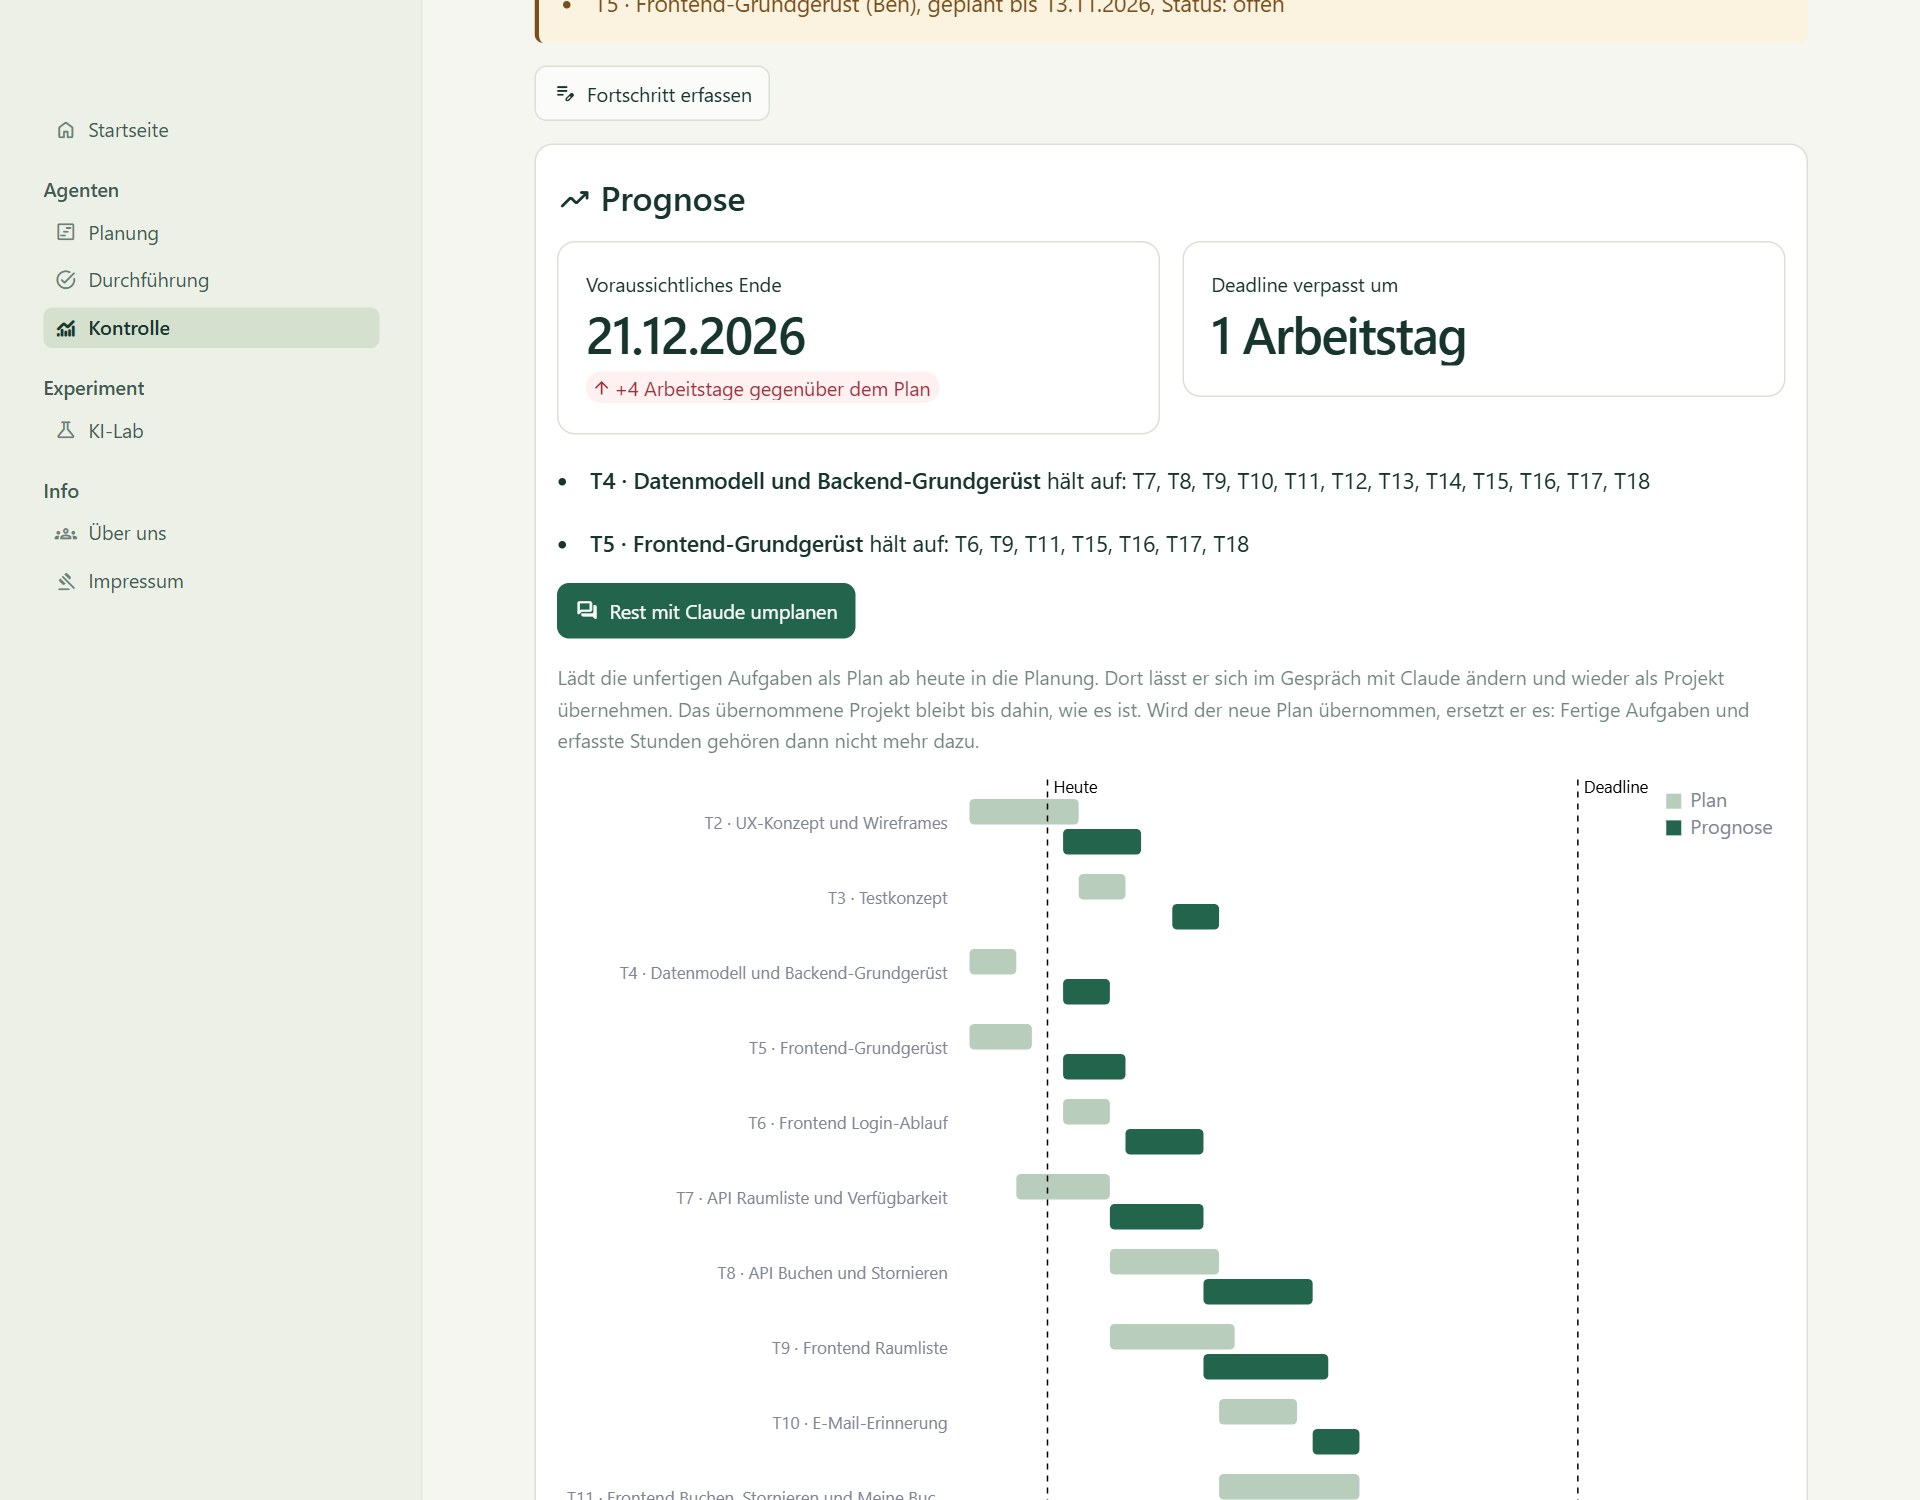
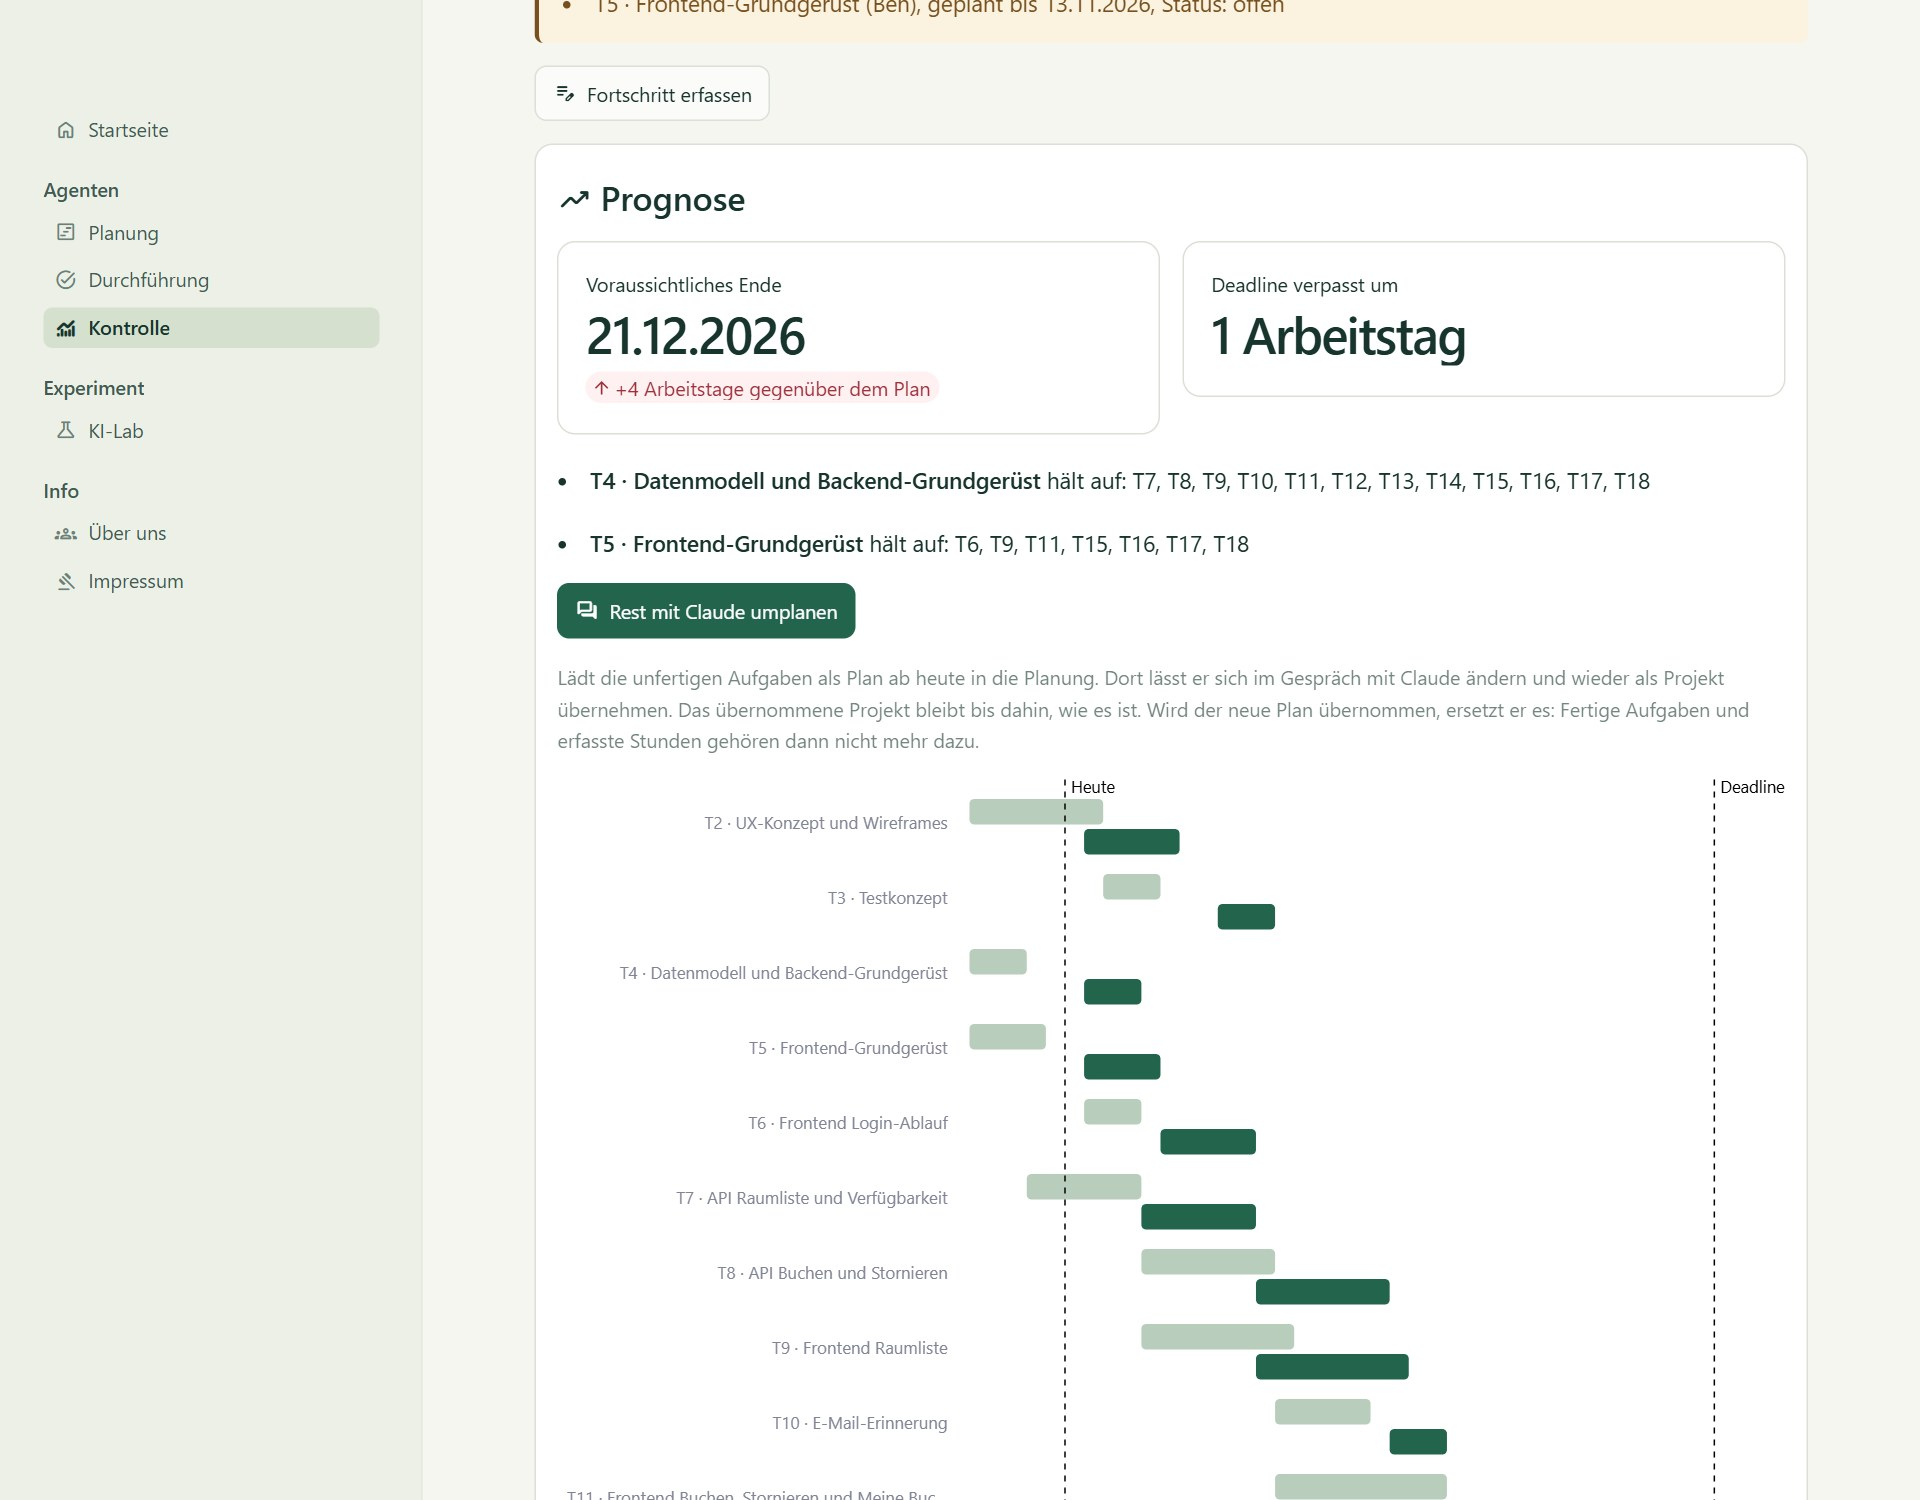
fix(ui): charts were unreadable on a phone
At 375 px the plan-versus-forecast chart showed the names of the tasks and no
bars: the names had a fixed 260 px, more than the chart is wide. The curve of
the planned value was squeezed into a strip by its legend on the right. Both
are on main; the Gantt chart of the Planung had the same settings.

The legend goes below the plot, two entries a row. The names get 35 % of the
width of the chart, between 90 and 260 px, taken from the container: taken
from the plot, whose width depends on the names in turn, the first letters
were cut off.

Checked in a browser at 375 px and at desktop width on Kontrolle and Planung.
Screenshots of the README retaken.

diff --git a/04-Prototyp/pm_agent/pages/kontrolle.py b/04-Prototyp/pm_agent/pages/kontrolle.py
@@ -24,7 +24,7 @@ from pm_agent.tracking import (
     percent,
     planned_curve,
 )
-from pm_agent.ui import adopted_project, consent, run_with_progress
+from pm_agent.ui import LEGEND, TASK_AXIS, adopted_project, consent, run_with_progress
 
 state = st.session_state
 
@@ -124,12 +124,12 @@ if tracking is not None:
                 .encode(
                     x=alt.X("Start:T", title=None, axis=alt.Axis(format="%d.%m.")),
                     x2="Ende:T",
-                    y=alt.Y("Aufgabe:N", sort=None, title=None, axis=alt.Axis(labelLimit=260)),
+                    y=alt.Y("Aufgabe:N", sort=None, title=None, axis=TASK_AXIS),
                     yOffset=alt.YOffset("Art:N", sort=kinds),
                     color=alt.Color(
                         "Art:N",
                         sort=kinds,
-                        title=None,
+                        legend=LEGEND,
                         scale=alt.Scale(domain=kinds, range=["#b9cdbd", "#23654c"]),
                     ),
                     tooltip=["Aufgabe", "Art", "Zeitraum"],
@@ -179,7 +179,7 @@ if tracking is not None:
         colour = alt.Color(
             "Wert:N",
             sort=kinds,
-            title=None,
+            legend=LEGEND,
             scale=alt.Scale(domain=kinds, range=["#90ad9a", "#23654c", "#ba8d42"]),
         )
         curve = (
@@ -256,7 +256,7 @@ if tracking is not None:
                 x=alt.X("ID:N", sort=None, title="Aufgabe"),
                 xOffset=alt.XOffset("Art:N", sort=["Plan (h)", "Ist (h)"]),
                 y=alt.Y("Stunden:Q"),
-                color=alt.Color("Art:N", sort=["Plan (h)", "Ist (h)"], title=None),
+                color=alt.Color("Art:N", sort=["Plan (h)", "Ist (h)"], legend=LEGEND),
                 tooltip=["ID", "Art", "Stunden"],
             )
             # White like the panel around it; the theme would paint the page colour.

diff --git a/04-Prototyp/pm_agent/pages/planung.py b/04-Prototyp/pm_agent/pages/planung.py
@@ -22,7 +22,7 @@ from pm_agent.models import Project
 from pm_agent.planning import check_plan
 from pm_agent.tracking import adopt, has_progress, rest_project
 from pm_agent.tracking import load as load_tracking
-from pm_agent.ui import BUSY_HINT, chip, round_printer, strip
+from pm_agent.ui import BUSY_HINT, LEGEND, TASK_AXIS, chip, round_printer, strip
 from pm_agent.workbench import (
     PLAN_COLUMNS,
     RUNS_CSV,
@@ -447,8 +447,8 @@ with tabs[3]:
                     .encode(
                         x=alt.X("Start:T", title=None, axis=alt.Axis(format="%d.%m.")),
                         x2="Ende:T",
-                        y=alt.Y("Aufgabe:N", sort=None, title=None, axis=alt.Axis(labelLimit=260)),
-                        color="Person:N",
+                        y=alt.Y("Aufgabe:N", sort=None, title=None, axis=TASK_AXIS),
+                        color=alt.Color("Person:N", legend=LEGEND),
                         # A dark outline for the tasks without slack.
                         stroke=alt.condition(
                             "datum.Kritisch", alt.value("#18352d"), alt.value("transparent")

diff --git a/04-Prototyp/pm_agent/src/pm_agent/ui.py b/04-Prototyp/pm_agent/src/pm_agent/ui.py
@@ -4,6 +4,7 @@ from collections.abc import Callable
 from html import escape
 from typing import Any, TypeVar
 
+import altair as alt
 import streamlit as st
 from anthropic import APIError
 
@@ -13,6 +14,13 @@ from pm_agent.tracking import Tracking, load
 from pm_agent.workbench import InputError, describe_round, round_summary
 
 T = TypeVar("T")
+
+# Charts have to fit a phone as well. The legend goes below the plot, two entries a row. The
+# names of the tasks on the left get a share of the width of the chart: with a fixed 260 px
+# a phone showed the names and no bars. The share is taken from the container, not from the
+# plot, whose width depends on the labels in turn.
+LEGEND = alt.Legend(orient="bottom", title=None, columns=2)
+TASK_AXIS = alt.Axis(labelLimit=alt.ExprRef("clamp(containerSize()[0] * 0.35, 90, 260)"))
 
 
 def adopted_project() -> Tracking | None:
